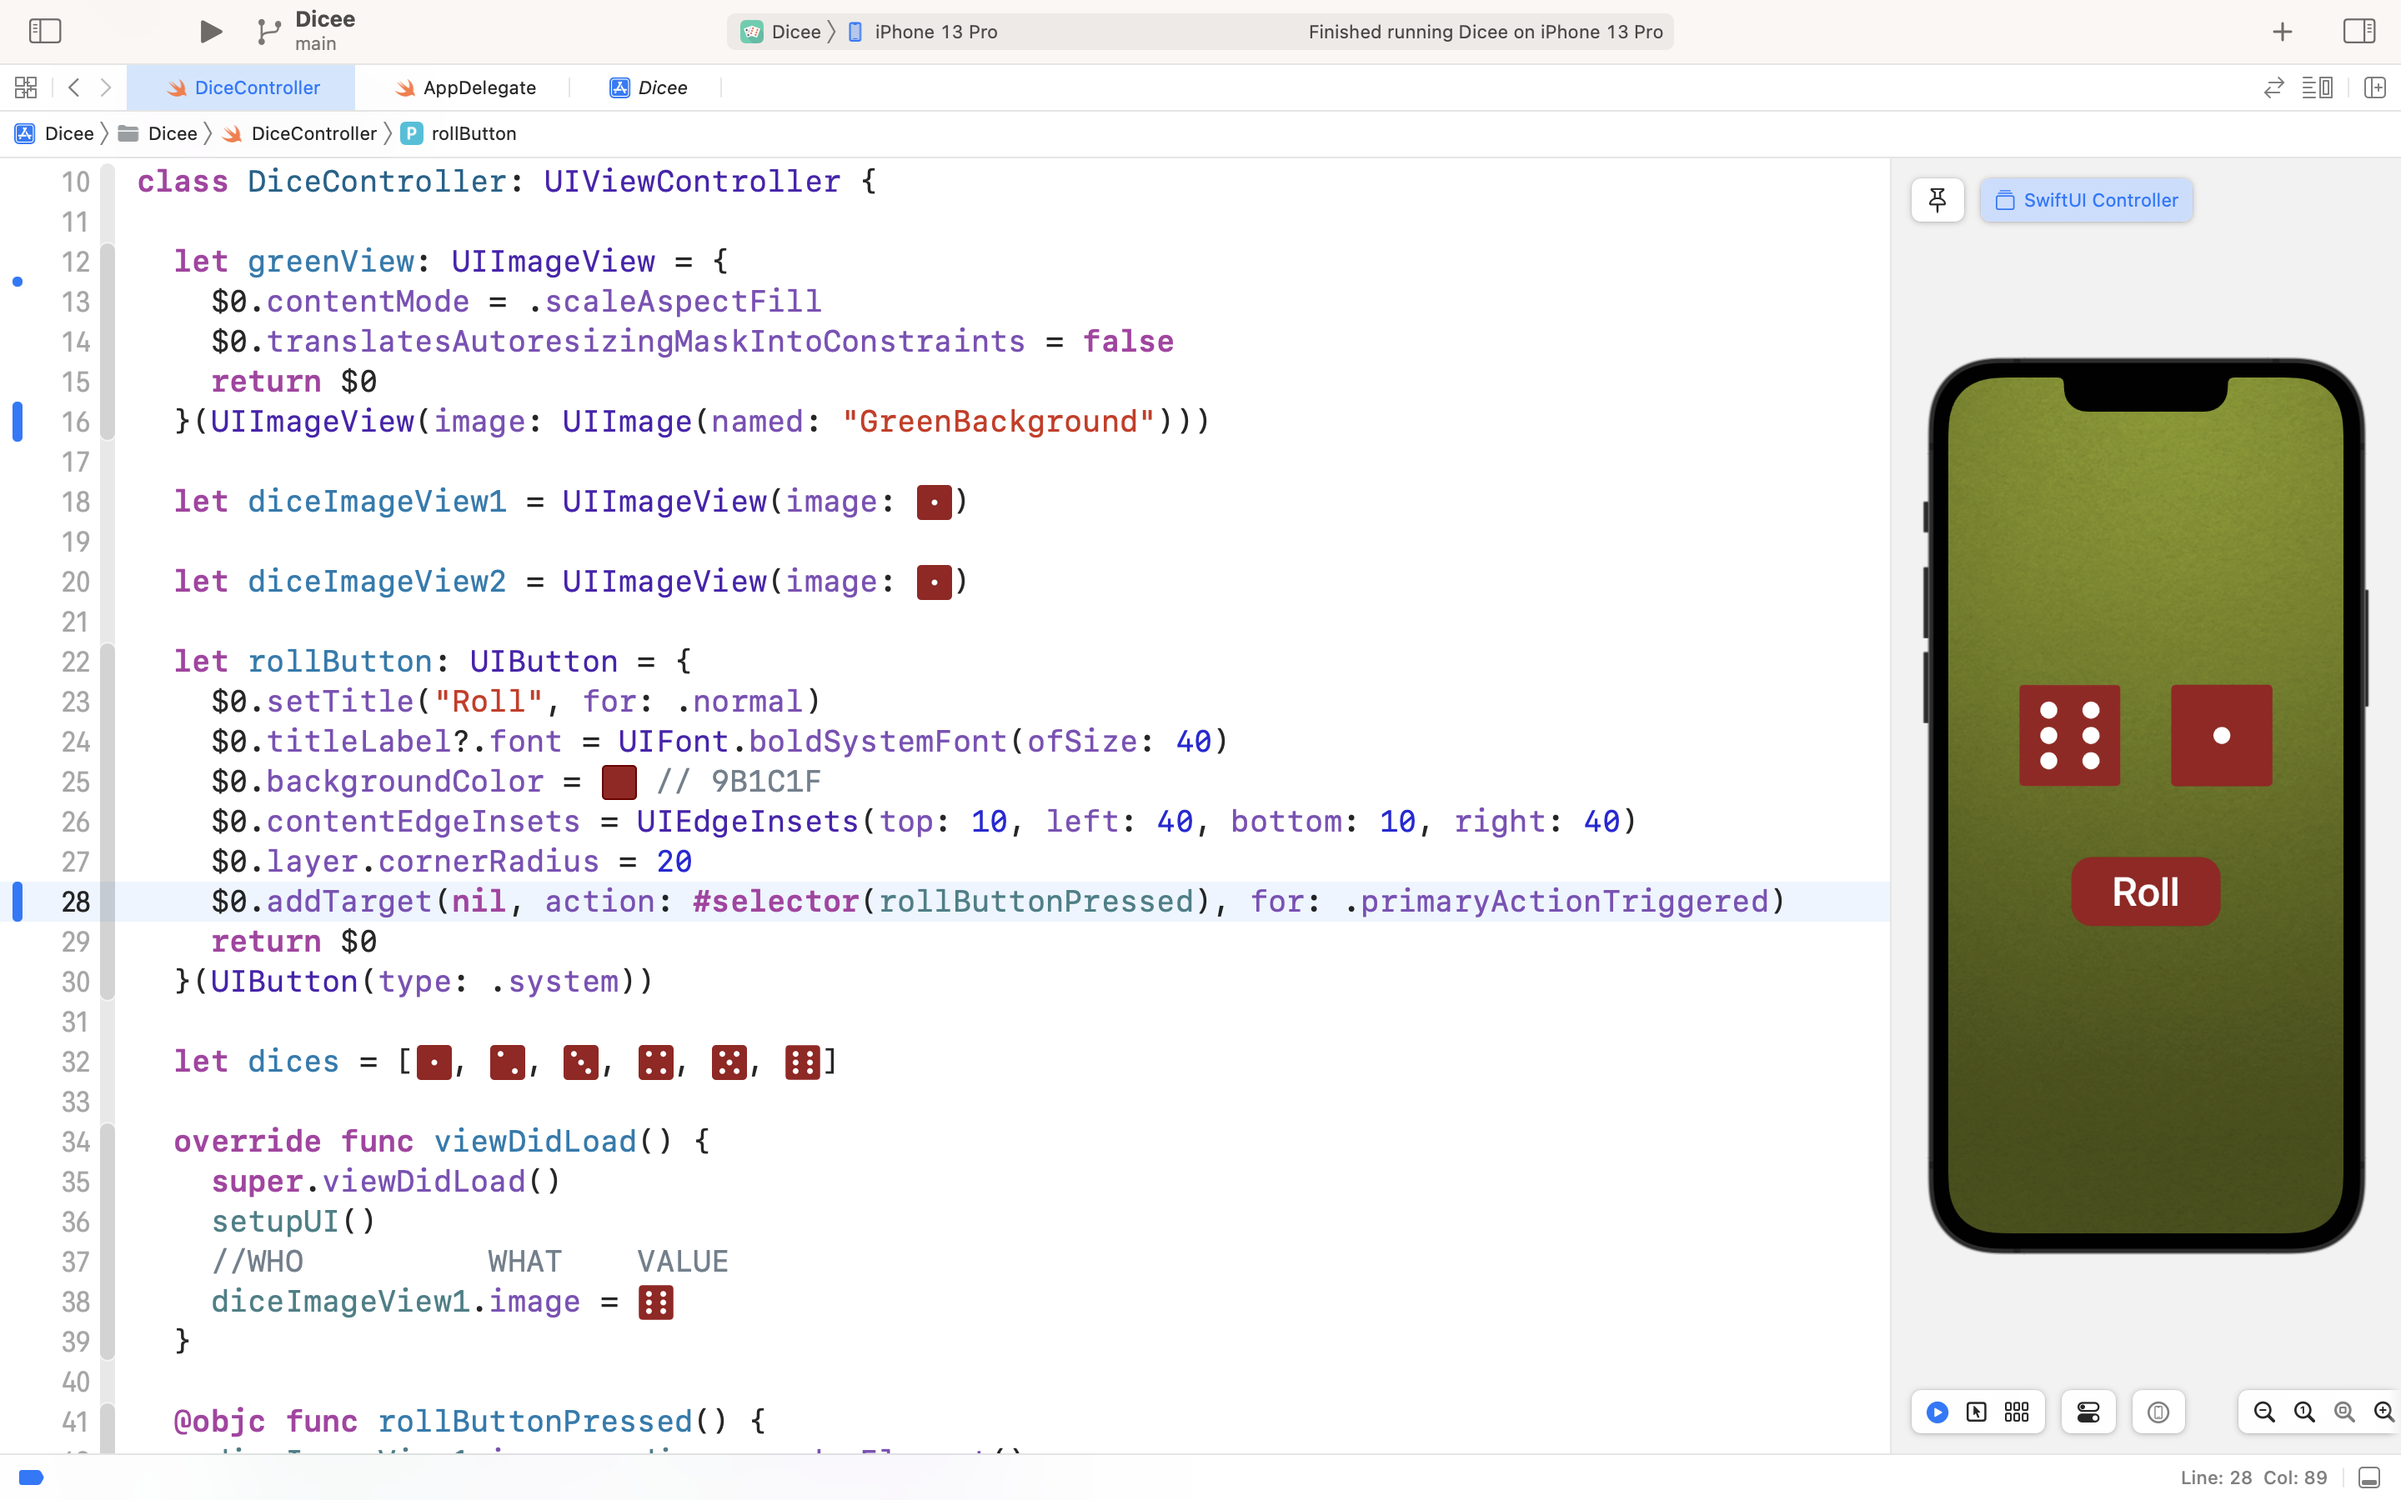
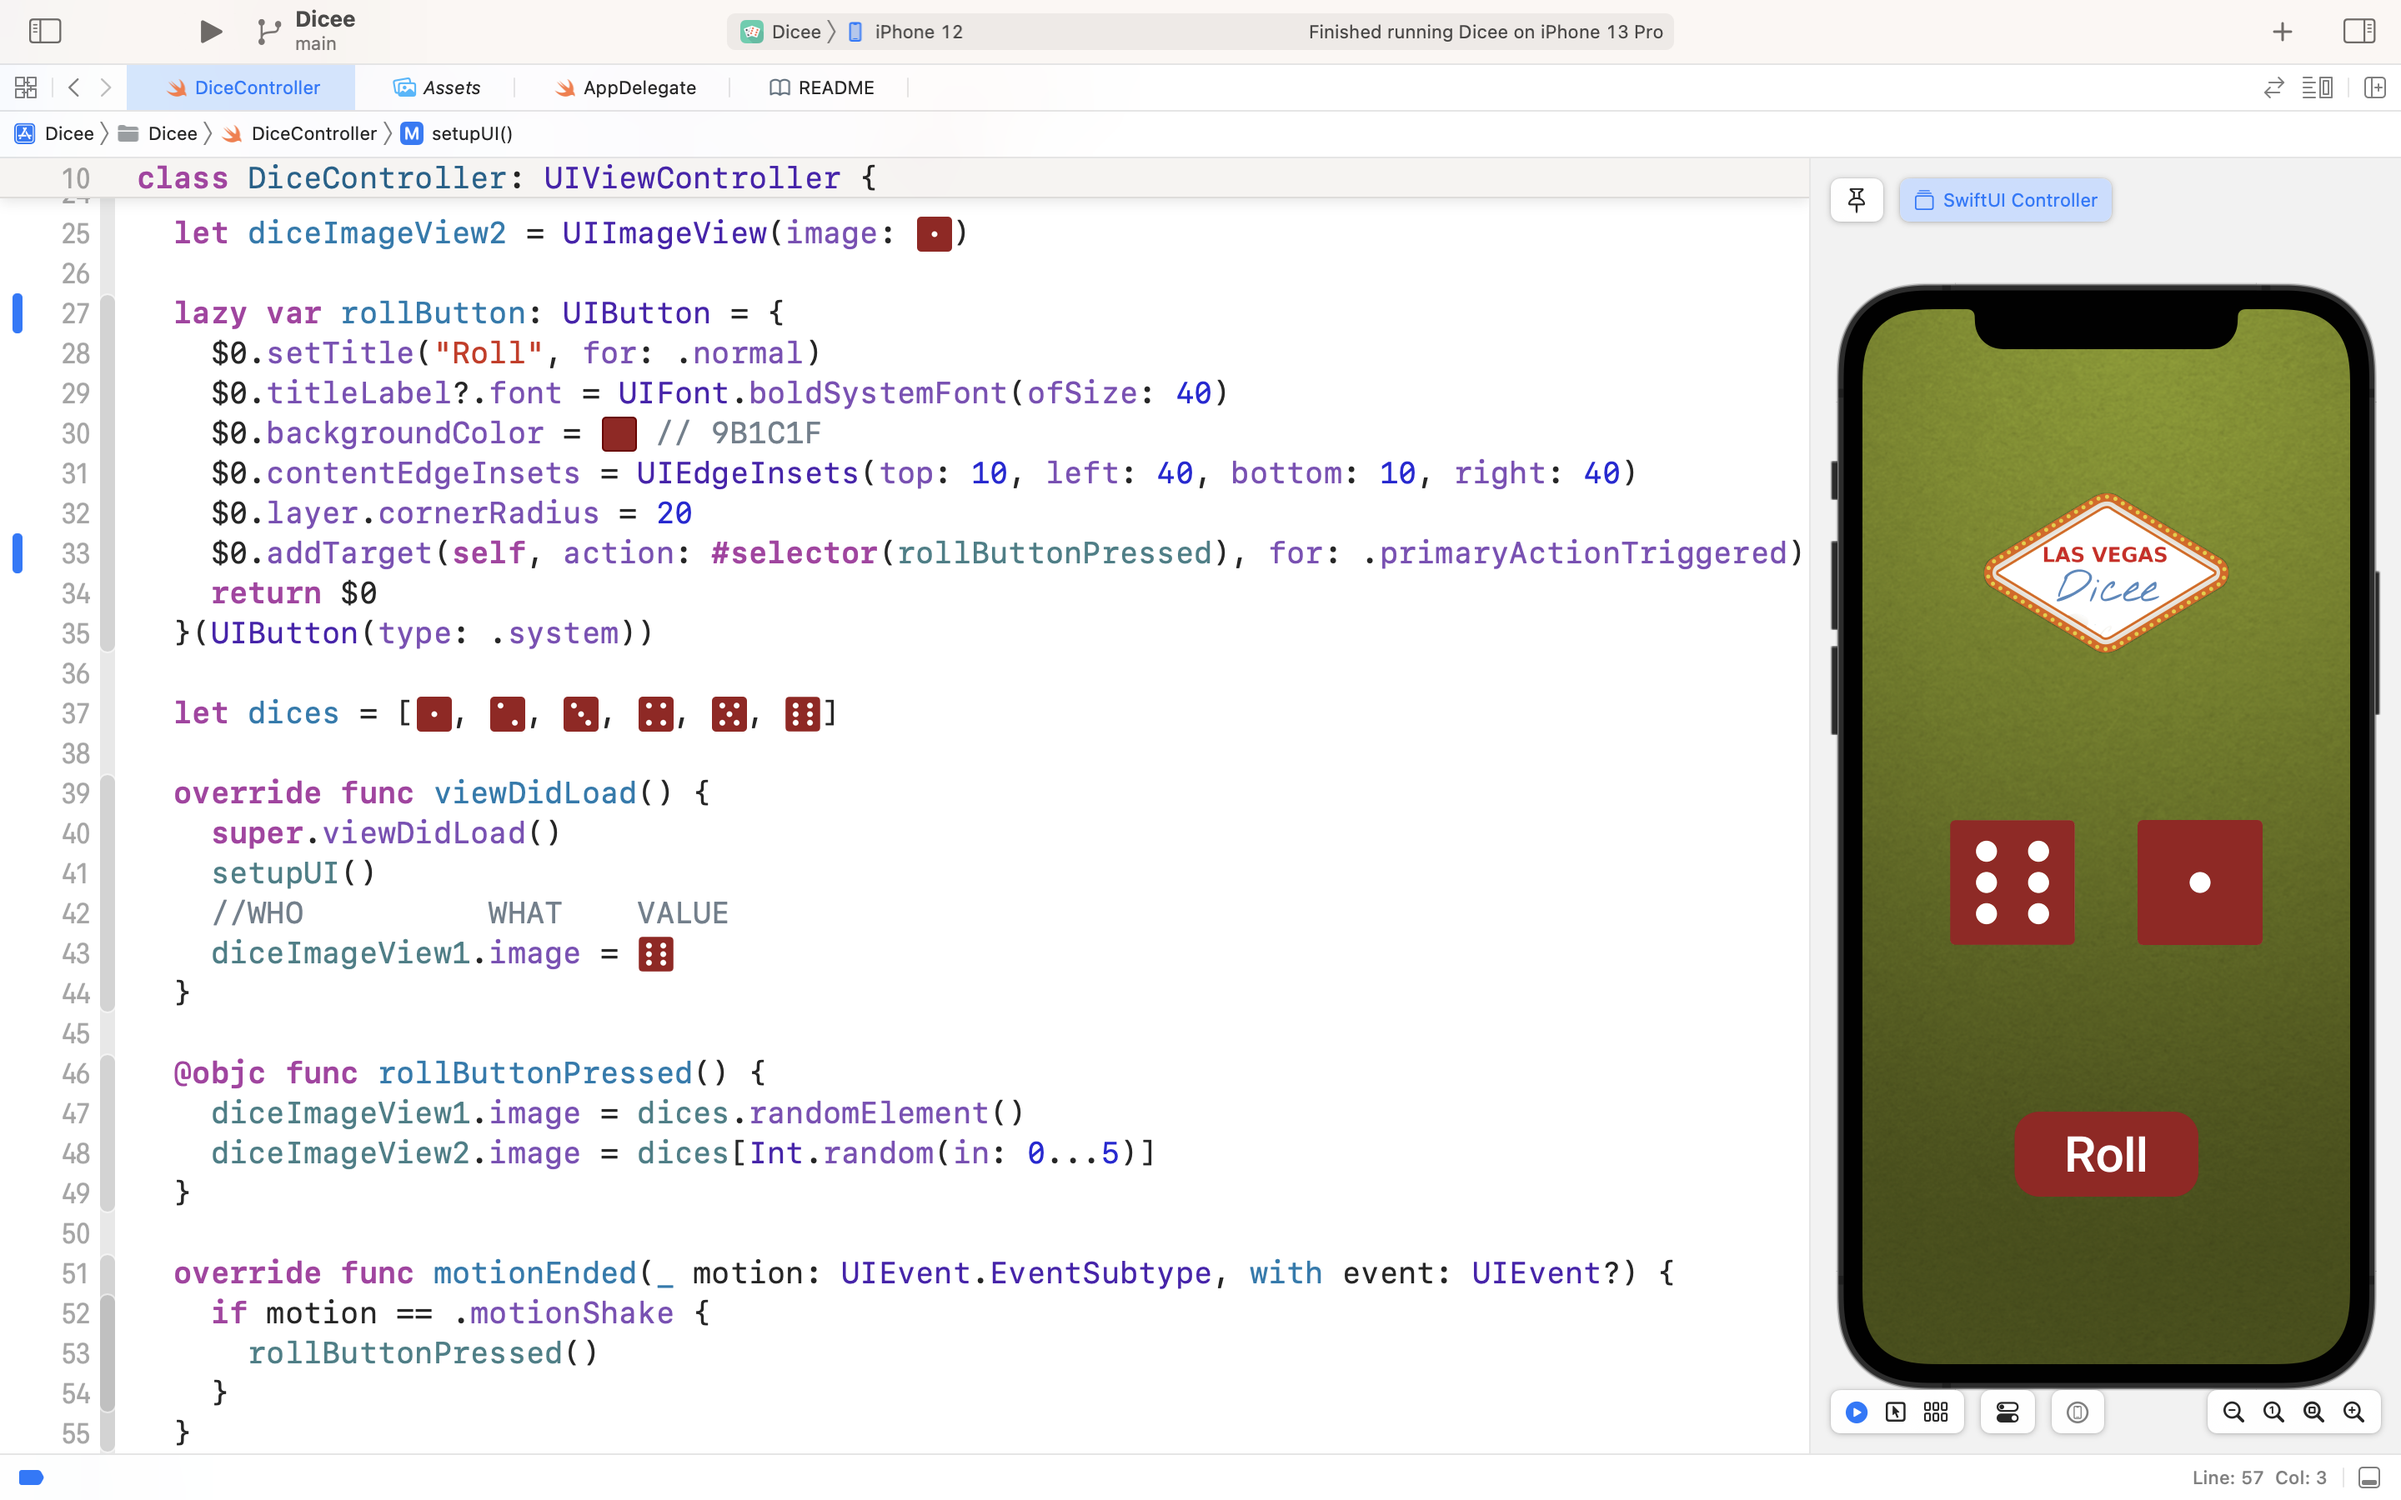
add gitignore

diff --git a/Dicee/DiceController.swift b/Dicee/DiceController.swift
@@ -15,17 +15,22 @@ class DiceController: UIViewController {
     return $0
   }(UIImageView(image: UIImage(named: "GreenBackground")))
 
+  let logoView: UIImageView = {
+    $0.contentMode = .scaleAspectFill
+    return $0
+  }(UIImageView(image: UIImage(named: "diceeLogo")))
+  
   let diceImageView1 = UIImageView(image: #imageLiteral(resourceName: "DiceOne"))
   
   let diceImageView2 = UIImageView(image: #imageLiteral(resourceName: "DiceOne"))
   
-  let rollButton: UIButton = {
+  lazy var rollButton: UIButton = {
     $0.setTitle("Roll", for: .normal)
     $0.titleLabel?.font = UIFont.boldSystemFont(ofSize: 40)
     $0.backgroundColor = #colorLiteral(red: 0.6078431373, green: 0.1098039216, blue: 0.1215686275, alpha: 1) // 9B1C1F
     $0.contentEdgeInsets = UIEdgeInsets(top: 10, left: 40, bottom: 10, right: 40)
     $0.layer.cornerRadius = 20
-    $0.addTarget(nil, action: #selector(rollButtonPressed), for: .primaryActionTriggered)
+    $0.addTarget(self, action: #selector(rollButtonPressed), for: .primaryActionTriggered)
     return $0
   }(UIButton(type: .system))
   
@@ -57,11 +62,10 @@ class DiceController: UIViewController {
     diceStack.distribution = .fill
     diceStack.spacing = 50
     
-    let stack = UIStackView(arrangedSubviews: [diceStack, rollButton])
+    let stack = UIStackView(arrangedSubviews: [logoView, diceStack, rollButton])
     stack.axis = .vertical
     stack.alignment = .center
-    stack.distribution = .fill
-    stack.spacing = 70
+    stack.distribution = .equalSpacing
     stack.translatesAutoresizingMaskIntoConstraints = false
     view.addSubview(stack)
     NSLayoutConstraint.activate([
@@ -70,7 +74,8 @@ class DiceController: UIViewController {
       greenView.leadingAnchor.constraint(equalTo: view.leadingAnchor),
       greenView.trailingAnchor.constraint(equalTo: view.trailingAnchor),
 
-      stack.centerYAnchor.constraint(equalTo: view.centerYAnchor),
+      stack.topAnchor.constraint(equalTo: view.safeAreaLayoutGuide.topAnchor, constant: 100),
+      stack.bottomAnchor.constraint(equalTo: view.safeAreaLayoutGuide.bottomAnchor, constant: -100),
       stack.centerXAnchor.constraint(equalTo: view.centerXAnchor)
     ])
   }

diff --git a/README.md b/README.md
@@ -23,8 +23,6 @@ We’re going to make a Las Vegas dice app. You can make the die roll at the pre
 * Test and debug your app with the Xcode console.
 * Learn about randomisation and how to generate random numbers in Swift.
 
-
-
 >This is a companion project to The App Brewery's Complete App Development Bootcamp, check out the full course at [www.appbrewery.co](https://www.appbrewery.co/)
 
-![End Banner](Documentation/readme-end-banner.png)
+![End Banner](Assets/readme-end-banner.png)
